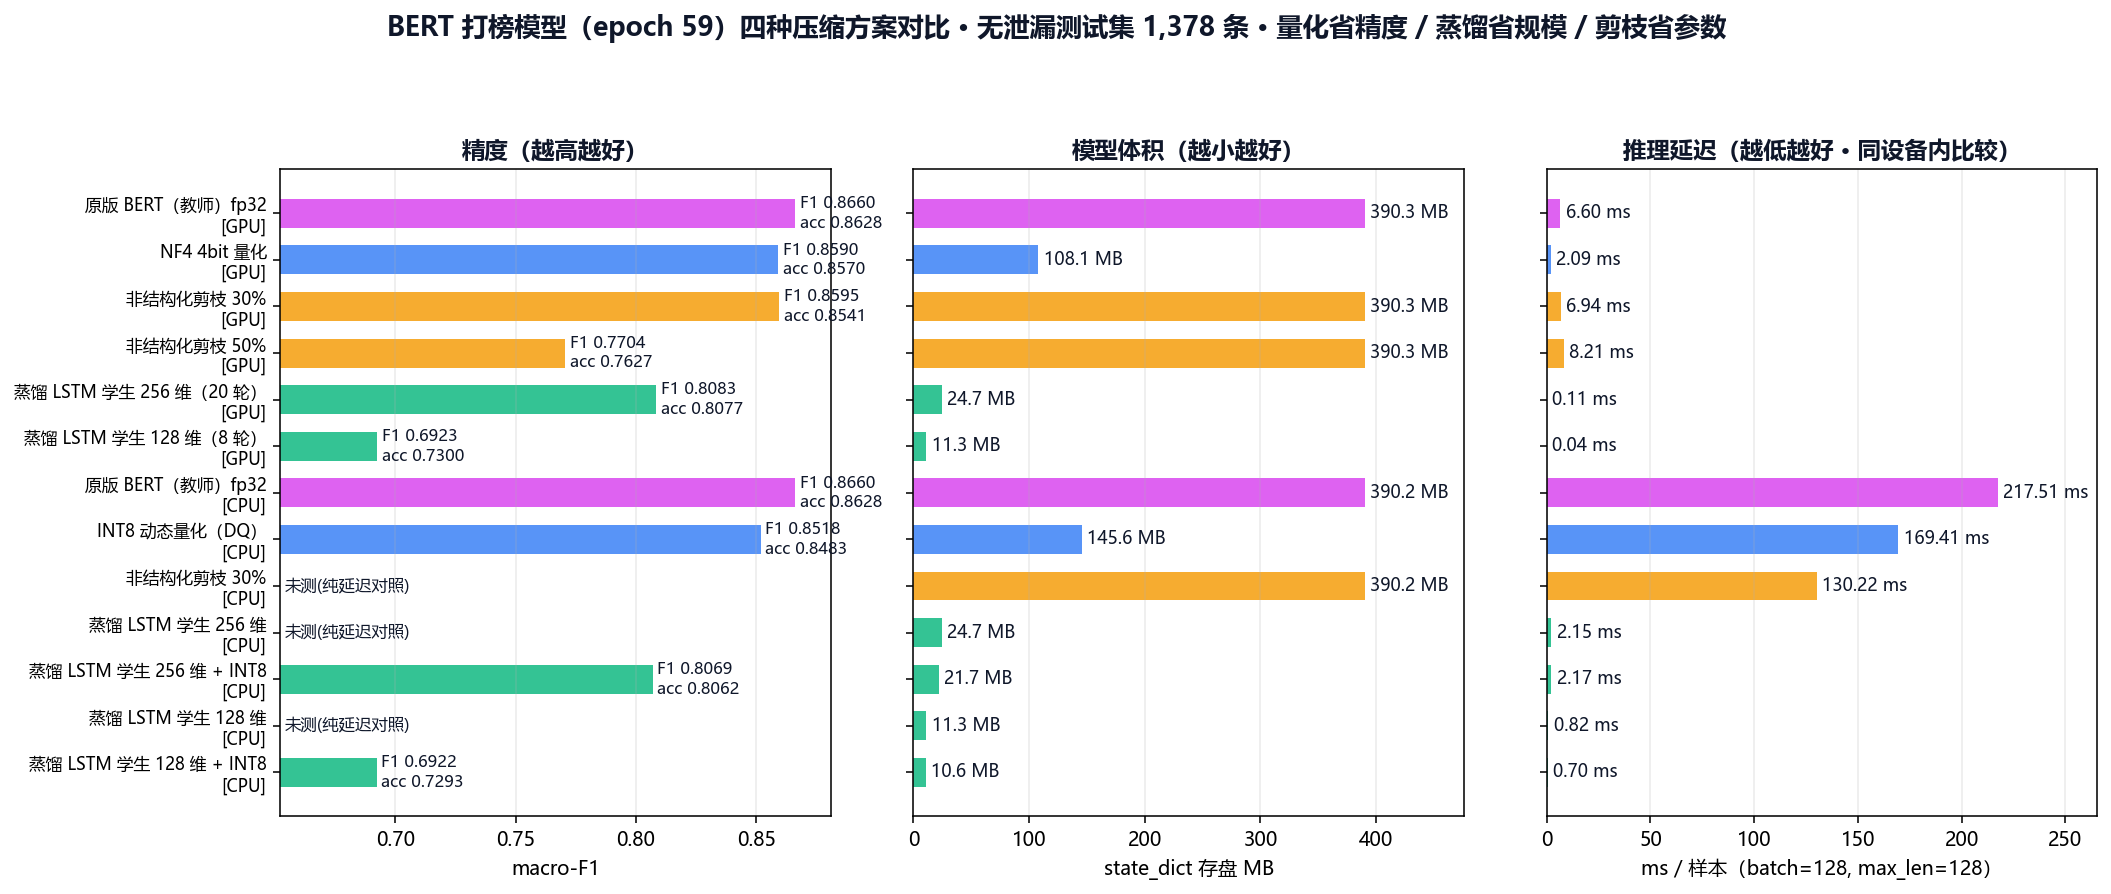
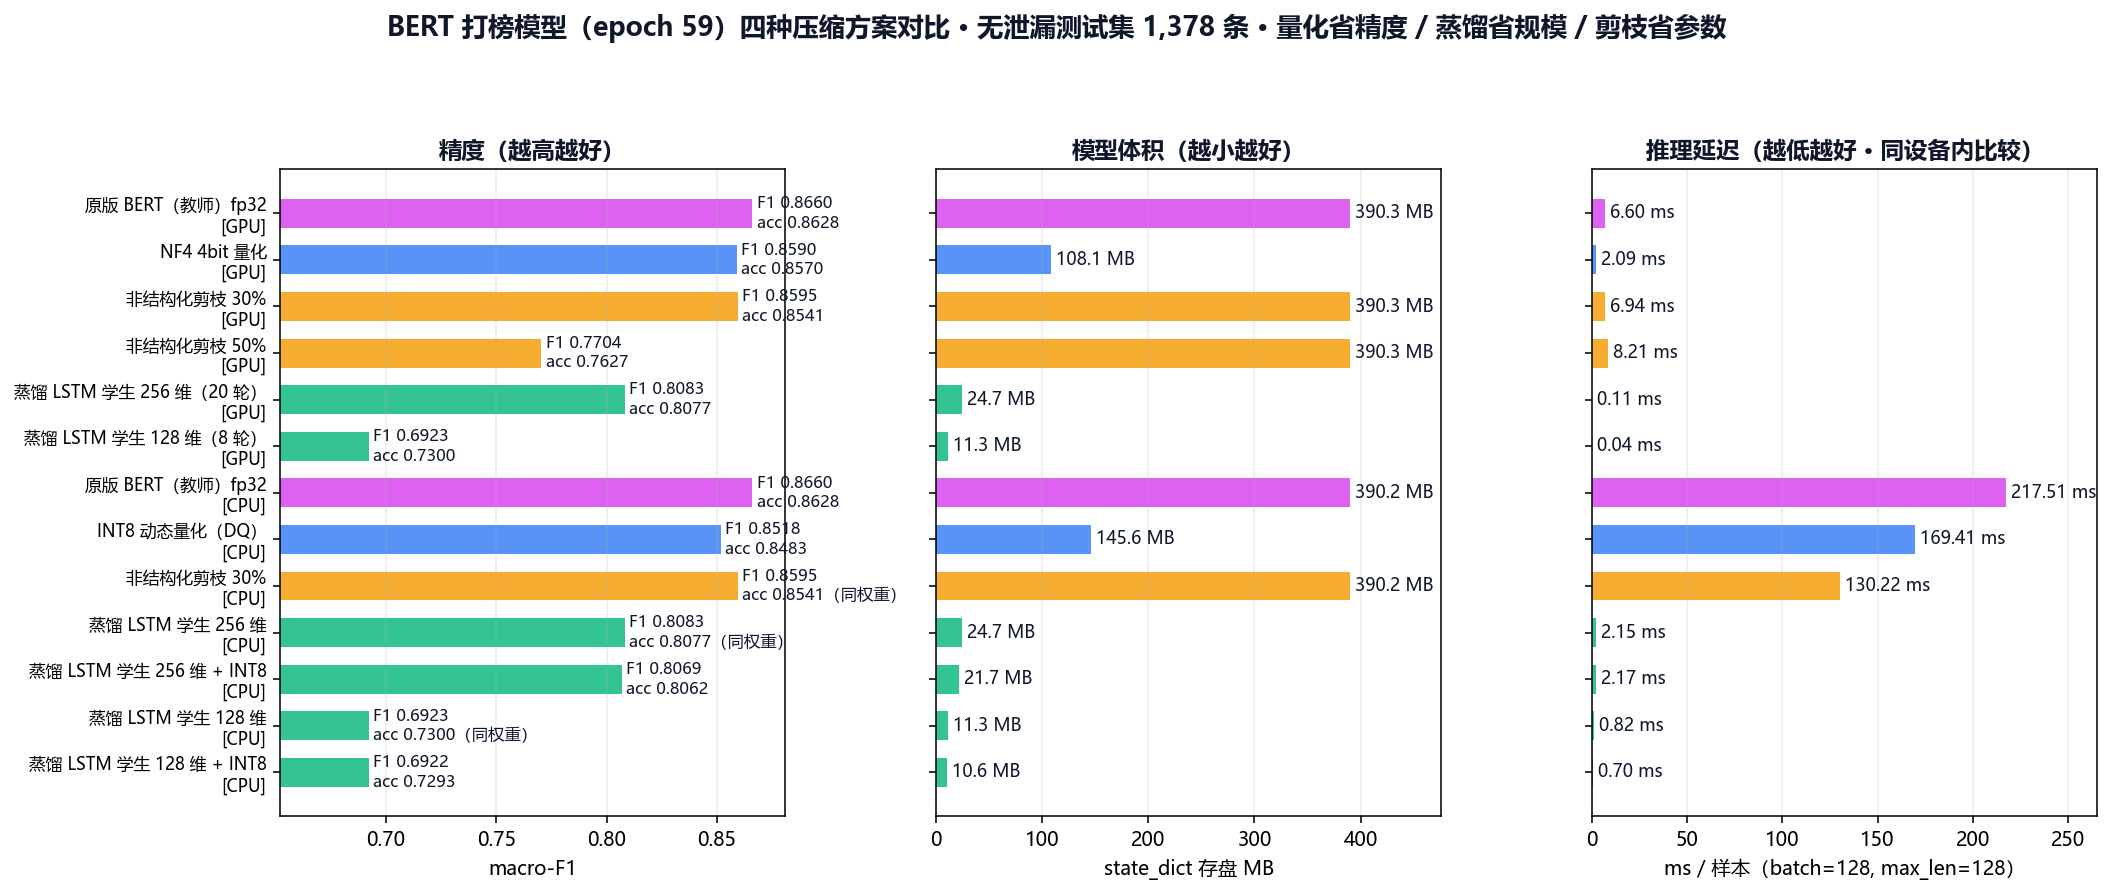
fix: 图19 精度面板未测行改为同权重继承(不再显示"未测")
- 剪枝30%(CPU)、蒸馏LSTM 128/256维(CPU)三行本是"同一权重只补测延迟",
  精度取同权重 GPU 行实测值并标注"（同权重）", 不再显示"未测(纯延迟对照)"
- 脚本加 INHERIT/mget 机制, README 图注补充该口径说明

diff --git a/resources/make_compress_fig.py b/resources/make_compress_fig.py
@@ -61,6 +61,26 @@ labels = [f"{lab}\n[{dev}]" for _, lab, dev, _ in items]
 colors = [c for _, _, _, c in items]
 ys = list(range(len(items)))[::-1]
 
+# 同权重继承：这些行是"同一份权重换设备只测延迟"，精度取同权重的已测值
+# （精度与设备无关，CPU 上未重复评测，标注时加"同权重"以免误读为新测量）
+INHERIT = {
+    "剪枝30%(CPU)": "剪枝30%(非结构化)",
+    "蒸馏LSTM学生 128维(8轮)-CPU": "蒸馏LSTM学生 128维(8轮)",
+    "蒸馏LSTM学生 256维(20轮)-CPU": "蒸馏LSTM学生 256维(20轮)",
+}
+INHERITED = set()
+
+
+def mget(key, metric):
+    """取指标：自身没测则继承同权重行，并登记为继承值。"""
+    v = get(key, metric)
+    if v is None and key in INHERIT:
+        v = get(INHERIT[key], metric)
+        if v is not None:
+            INHERITED.add((key, metric))
+    return v
+
+
 def num(v):
     """缺测的指标记为 0（柱不出），标注用 - 占位。"""
     return 0.0 if v is None else v
@@ -68,13 +88,18 @@ def num(v):
 
 # ---- A: 精度 ----
 ax = axes[0]
-f1s = [num(get(k, "macro_f1")) for k, _, _, _ in items]
-accs = [get(k, "acc") for k, _, _, _ in items]
+f1s = [num(mget(k, "macro_f1")) for k, _, _, _ in items]
+accs = [mget(k, "acc") for k, _, _, _ in items]
 ax.barh(ys, f1s, color=colors, alpha=0.85, height=0.62)
 lo = min(v for v in f1s if v) - 0.04
 ax.set_xlim(lo, max(f1s) + 0.015)
-for y, f1, acc in zip(ys, f1s, accs):
-    txt = "未测(纯延迟对照)" if f1 == 0 else f"F1 {f1:.4f}\nacc {acc:.4f}"
+for y, (k, _, _, _), f1, acc in zip(ys, items, f1s, accs):
+    if f1 == 0:
+        txt = "未测"
+    elif (k, "macro_f1") in INHERITED:
+        txt = f"F1 {f1:.4f}\nacc {acc:.4f}（同权重）"
+    else:
+        txt = f"F1 {f1:.4f}\nacc {acc:.4f}"
     ax.text((f1 if f1 else lo) + 0.002, y, txt, va="center",
             fontsize=8.4, color="#0f172a")
 ax.set_yticks(ys); ax.set_yticklabels(labels, fontsize=8.6)

diff --git a/README.md b/README.md
@@ -529,6 +529,8 @@ BERT（`bert-base-chinese`，12 层、约 1.1 亿参数）在 Kaggle 云端 GPU 
 
 ![模型压缩四方案对比](resources/figures/19_compress_compare.png)
 
+> 图的读法：同一份权重换设备只补测延迟、不重复评测精度（精度与设备无关），因此图中 CPU 行的精度标注为**同权重**的已测值；体积与延迟均为该设备实测。
+
 | 方案 | 设备 | 准确率 | macro-F1 | 体积 | 延迟（ms/样本） | 相对教师（按 macro-F1） |
 | --- | --- | ---: | ---: | ---: | ---: | --- |
 | **原版 BERT**（教师模型，fp32） | GPU | 0.8628 | 0.8660 | 390.3 MB | 6.50 | 基准 |
